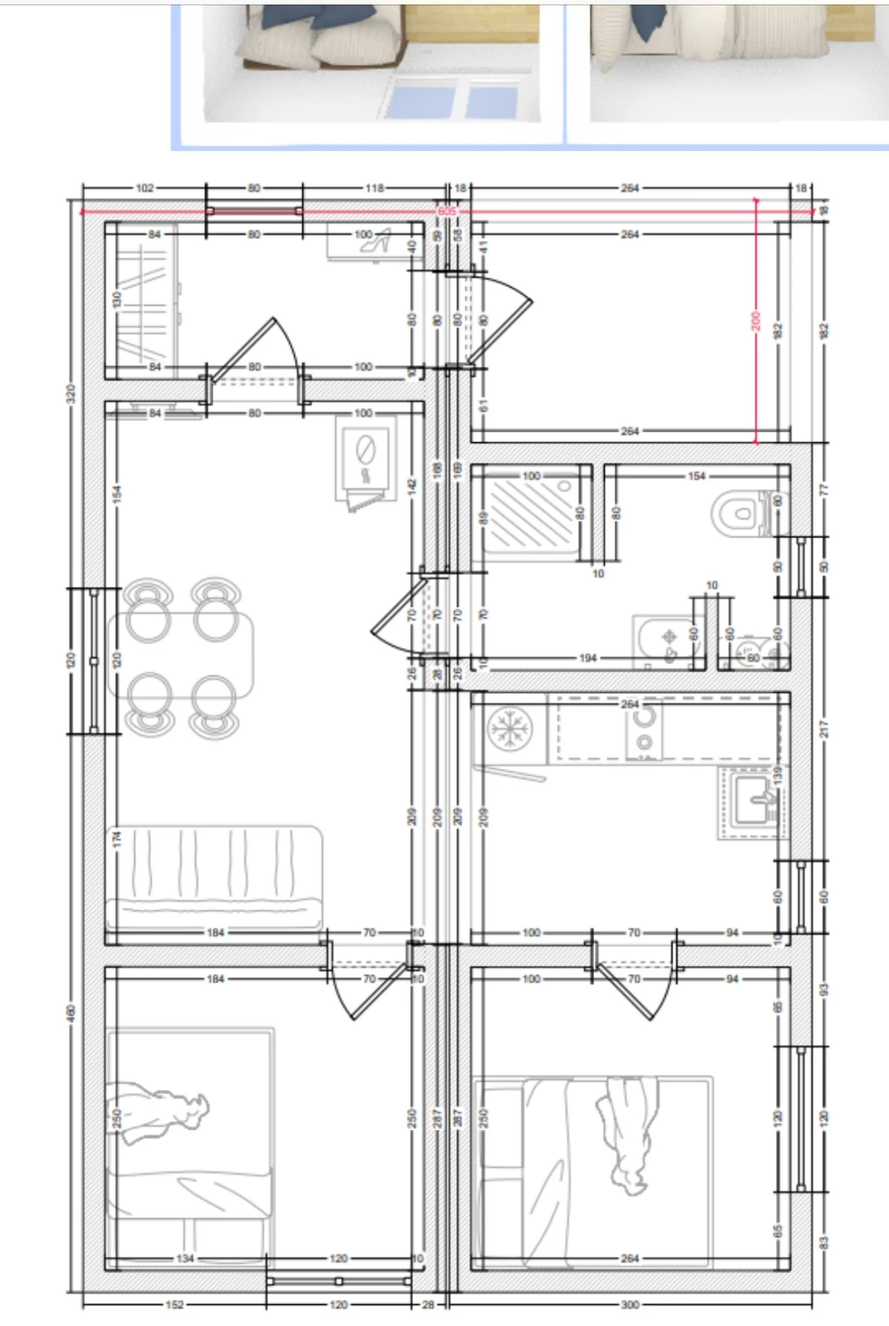
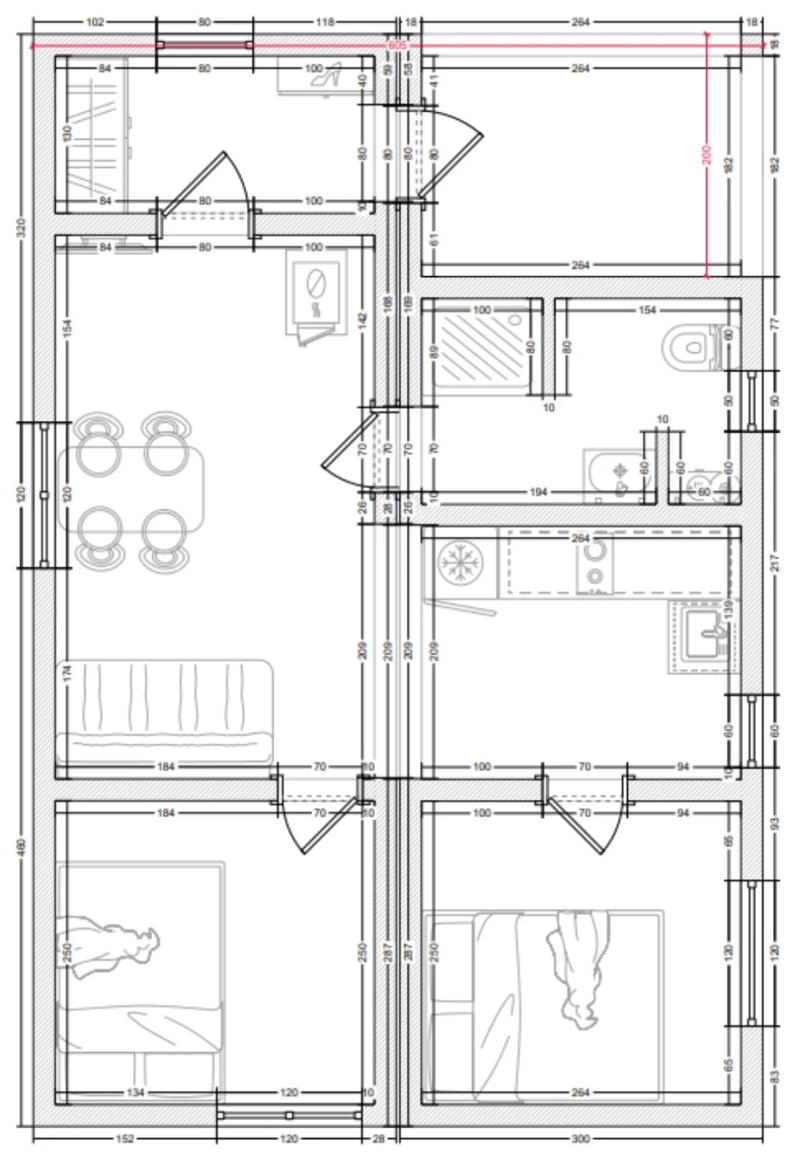
Планы без лишнего: у бордового дома 54 м² убрана полоска картинок сверху
У «Дома с баней» снизу убран обрывок подписи; у «Чёрного» дома и бани 2,5×6
план обрезан по чертежу: без пустых полей, чёрной линии сверху и полосы
прокрутки справа.

Claude-Session: https://claude.ai/code/session_01Ncg2WsdbaUiHi2r3Knh2FN

diff --git a/promo.html b/promo.html
@@ -2248,7 +2248,7 @@ html.has-house { overflow: hidden; }
 </script>
 <script>
 var HOUSES = {"h1": {"title": "Чёрный снаружи, белый внутри", "facts": [["Размер", "6×8,5 м: дом 6×6 м и терраса 2,5×6 м"], ["Внутри", "две спальни, кухня-гостиная, прихожая, санузел, дровяная печь"], ["Отделка", "стены в краске, ламинат 33 класса"], ["Когда", "сентябрь 2026"]], "note": null, "spec": null, "video": null, "reviews": [["Нет слов! Красота. Стиль. Уют.", "Елена, комментарий ВКонтакте"], ["Шикарно выглядит.", "Сергей, комментарий ВКонтакте"]], "photos": [["h1-01", "Дом 6×8,5 м: сам дом 6×6 м и терраса 2,5×6 м под общей крышей", 0], ["h1-02", "Вечером горит свет под навесом террасы", 0], ["h1-03", "Холодильник и мебель заказчика приехали на участок прямо в доме", 0], ["h1-04", "Дровяная печь греет, даже если отключат электричество", 0], ["h1-05", "Спальня с двумя окнами", 0], ["h1-06", "Прихожая, справа санузел со стиральной машиной", 0], ["h1-07", "Цвет стен выбрал заказчик", 0], ["h1-08", "Стены подготовлены под плитку: её заказчик выберет и положит позже", 0], ["h1-09", "Две спальни, кухня-гостиная, прихожая и санузел", 1]]}, "h2": {"title": "Баня с жилой комнатой", "facts": [["Размер", "баня 31,5 м² и угловая терраса 12 м²"], ["Внутри", "комната 14 м², парная, душевая, санузел"], ["Изготовление", "3–4 недели"], ["Когда", "октябрь 2026"]], "note": null, "spec": null, "video": null, "reviews": [], "photos": [["h2-01", "Баня с жилой комнатой: 31,5 м² и угловая терраса 12 м²", 0], ["h2-02", "В сумерках на террасе горит свет", 0], ["h2-03", "Комната 14 м²: по плану здесь диван и кровать, можно остаться ночевать", 0], ["h2-04", "Коридор к парной и душевой", 0], ["h2-05", "Душевая отделана панелями под тёмный камень", 0], ["h2-06", "Санузел с окном: унитаз и раковина с тумбой", 0], ["h2-07", "Парная: дровяная печь у стены из кирпича", 0], ["h2-08", "Полки буквой Г, из парной дверь в душевую", 0], ["h2-09", "Планировка: комната, санузел, душевая, парная и терраса", 1]]}, "h3": {"title": "Дачный дом 3×9 с хозблоком", "facts": [["Размер", "3×9 м"], ["Внутри", "кухня-гостиная с печью, санузел с душем, прихожая, хозблок со своим входом"], ["Изготовление", "3–4 недели, установка за 1 день"], ["Когда", "сентябрь 2026"]], "note": "В хозблоке стеллаж и откидной столик: для рассады и зарядки аккумуляторов. Планировку придумал заказчик.", "spec": null, "video": null, "reviews": [["Какой классный проект! Восхищаюсь вами.", "Татьяна, комментарий ВКонтакте"], ["Сколько можно уместить в таком пространстве, обалдеть! Очень круто.", "Сергей, комментарий ВКонтакте"], ["Какое роскошество и продуманность!", "Katrin, комментарий ВКонтакте"]], "photos": [["h3-01", "Два входа под одним козырьком: в дом и в хозблок", 0], ["h3-02", "Кухня вдоль окон: духовой шкаф, посудомоечная машина и холодильник", 0], ["h3-03", "Топится печь, рядом плита и столешница под окнами", 0], ["h3-04", "Прихожая: шкаф подвешен над полом, справа дверь в санузел", 0], ["h3-05", "Санузел: душ, унитаз и стиральная машина", 0], ["h3-06", "Планировка: хозблок, прихожая, санузел и кухня-гостиная", 1]]}, "h4": {"title": "Баня 2,5×6", "facts": [["Размер", "2,5×6 м"], ["Внутри", "комната отдыха, моечная, парная"], ["Изготовление", "2–3 недели"], ["Гарантия", "5 лет"], ["Когда", "август 2026"]], "note": null, "spec": ["Утепление: пол и потолок 150 мм, стены 100 мм", "Крыша из гибкой черепицы", "Окна двухкамерные Rehau", "Пол со стоком для воды; влагостойкий ламинат 33 класса", "Парная и моечная из осины и лиственницы", "Входная дверь не промерзает зимой, внутри стеклянные банные двери", "Электрика с защитой от удара током (УЗО)"], "video": null, "reviews": [["Банька — мечта!", "Алла, комментарий ВКонтакте"]], "photos": [["h4-01", "Баня приезжает на участок готовой: с печью, полками и электрикой", 0], ["h4-02", "Огонь в печи видно через стеклянную дверцу топки", 0], ["h4-03", "Моечная: бак для воды, лавка и пол со стоком", 0], ["h4-04", "Парная: полки буквой Г и печь «Гейзер мини»", 0], ["h4-05", "Из парной дверь ведёт в моечную", 0], ["h4-06", "Планировка: комната отдыха, моечная и парная", 1]]}, "h5": {"title": "Дом 48 м² с угловой террасой", "facts": [["Размер", "48 м² и угловая терраса"], ["Внутри", "две спальни, гостиная, кухня-столовая, санузел"], ["Когда", "август 2026"]], "note": "Заказчики почти сразу переехали и живут. Всем тепло и комфортно.", "spec": null, "video": null, "reviews": [["Очень уютно получилось!", "Марина, комментарий ВКонтакте"]], "photos": [["h5-01", "Фото прислали заказчики после переезда", 0], ["h5-02", "В прихожей встречает хозяйский пёс", 0], ["h5-03", "Спальня с большим окном", 0], ["h5-04", "Вторая спальня стала детской", 0], ["h5-05", "Гостиная: угловой диван у окна", 0], ["h5-06", "Напротив дивана тумба с телевизором", 0], ["h5-07", "Санузел: водонагреватель и фильтр для воды", 0], ["h5-08", "Планировка: две спальни, гостиная, кухня-столовая, санузел и терраса", 1]]}, "h6": {"title": "Рыжий дом 69 м²", "facts": [["Размер", "6×11,5 м: дом 6×9 м и терраса 6×2,5 м"], ["Внутри", "кухня-гостиная с печью, две спальни, санузел с душем"], ["Изготовление", "4–5 недель под ключ, установка 2 дня"], ["Когда", "июнь 2026"]], "note": null, "spec": null, "video": null, "reviews": [["Какие ваши дома просторные и красивые.", "Елена, комментарий ВКонтакте"], ["Какой простор!", "Katrin, комментарий ВКонтакте"]], "photos": [["h6-01", "69 м² вместе с террасой: дом 6×9 м и терраса 6×2,5 м", 0], ["h6-02", "Терраса на всю ширину дома, к ней ведут широкие ступени", 0], ["h6-03", "Вид сбоку: окна вдоль длинной стороны и труба от печи", 0], ["h14-03", "Кухня-гостиная: печь и стеклянная дверь на террасу", 0], ["h14-04", "Спальня с двуспальной кроватью", 0], ["h14-05", "Вторая спальня", 0], ["h14-06", "Санузел: душ и раковина с тумбой", 0]]}, "h7": {"title": "Дом с баней", "facts": [["Где", "Карелия"], ["Внутри", "кухня-гостиная, спальня, санузел с душем, парная"], ["Изготовление", "до 4 недель, установка 1–2 дня"], ["Фото зимой", "прислали хозяева, декабрь 2025"]], "note": "Зимой хозяева прислали фото дома вместе с большим, на 5 минут, голосовым сообщением. Юлия: «Я слушала и плакала».", "spec": null, "video": null, "reviews": [["Какой чудесный домик! С банькой! Вот оно — тихое семейное счастье и релакс!", "Алла, комментарий ВКонтакте"], ["Волшебно!", "комментарий ВКонтакте к зимним фото"]], "photos": [["h7-01", "Рыжий фасад и широкая терраса со ступенями", 0], ["h16-01", "Зимой: дом среди заснеженных сосен, фото прислали хозяева", 0], ["h7-02", "Кухня-гостиная, за резной перегородкой спальное место", 0], ["h7-03", "Кухня: духовой шкаф, варочная панель и стол у окна", 0], ["h7-04", "Спальня: двуспальная кровать и ещё одно спальное место", 0], ["h7-05", "Санузел: душевая со стеклянными дверями и зеркало с подсветкой", 0], ["h7-06", "Парная: дровяная печь и полки с подсветкой", 0], ["h7-07", "Печь-каменка, дверь из парной ведёт в дом", 0], ["h16-02", "Зимой: спальня за резной перегородкой, на окне гирлянда", 0], ["h16-03", "Зимой: кровать у окна, за окном заснеженный лес", 0], ["h7-08", "Планировка дома с баней", 1]]}, "h8": {"title": "Дом-студия 27 м²", "facts": [["Размер", "27 м²"], ["Внутри", "комната с печью, спальня, санузел с душем"], ["Изготовление", "12–15 дней, установка за несколько часов"], ["Когда", "апрель 2026"]], "note": "Зимний дом в комплектации под ключ: привезли, поставили, заходи и живи.", "spec": null, "video": null, "reviews": [], "photos": [["h8-01", "Зимний дом-студия 27 м² с дровяной печью", 0], ["h8-02", "Комната с печью и окнами на две стороны", 0], ["h8-03", "Коридор: шкаф-купе с зеркалом, в конце печь", 0], ["h8-04", "Отдельная спальня", 0], ["h8-05", "Санузел: душ, раковина над стиральной машиной и унитаз", 0]]}, "h9": {"title": "Дом 48 м², зелёный", "facts": [["Размер", "48 м²"], ["Внутри", "кухня-гостиная с печью, спальня, санузел, прихожая с гардеробом"], ["Изготовление", "3 недели, установка 1 день"], ["Когда", "март 2026"]], "note": null, "spec": null, "video": null, "reviews": [["Мне нравятся все ваши дома! Особенно в тёплых светлых тонах.", "Татьяна, комментарий ВКонтакте"], ["Очень классный. Компактный.", "комментарий ВКонтакте"]], "photos": [["h9-01", "Зелёный фасад и белая терраса на закате", 0], ["h9-02", "Терраса с белыми перилами у входа", 0], ["h9-03", "Кухня-гостиная с печью и окнами на две стороны", 0], ["h9-04", "Кухня-гостиная во всю ширину дома, в конце печь", 0], ["h9-05", "Спальня с большим окном", 0], ["h9-06", "Санузел: стены под тёмный мрамор, место под душ", 0], ["h9-07", "Планировка: спальня, кухня-гостиная, прихожая с гардеробом и санузел", 1]]}, "h10": {"title": "Дом 48 м², рыжий с графитом", "facts": [["Размер", "48 м², 6×8 м"], ["Внутри", "две спальни, кухня-гостиная с печью, санузел, прихожая"], ["Изготовление", "3 недели под ключ"], ["Когда", "март 2026"]], "note": null, "spec": null, "video": null, "reviews": [["А главное — качественный! Как вспомню свой мини-теремок, так вздрогну.", "Нина, комментарий ВКонтакте"], ["Уютный домик очень! И очень симпатичный!", "Алла, комментарий ВКонтакте"]], "photos": [["h10-01", "Дом 48 м² зимой: свет у входа и в окнах", 0], ["h10-02", "Вход с фонарями по обе стороны двери", 0], ["h10-03", "Гостиная: светлые стены и тёмный пол", 0], ["h10-04", "Печь у стены, отделанной под чёрный мрамор", 0], ["h10-05", "Стеклянная дверь на улицу", 0], ["h10-06", "Прихожая: шкаф с жалюзийными дверцами", 0], ["h10-07", "Душевая: стены под тёмный камень", 0], ["h10-08", "Первый тост в новом доме, у печи", 0], ["h10-09", "Планировка: две спальни, кухня-гостиная, санузел и прихожая", 1]]}, "h11": {"title": "Дом 54 м², бордовый", "facts": [["Размер", "54 м²"], ["Внутри", "кухня-гостиная с печью, две спальни, санузел"], ["Изготовление", "3 недели под ключ, установка 1 день"], ["Когда", "март 2026"]], "note": "Планировку можно изменить бесплатно.", "spec": null, "video": null, "reviews": [["Цвет дома просто отличный! Планировка замечательная!", "Олеся, комментарий ВКонтакте"], ["Классный дом! Цвет потрясающий.", "Елена, комментарий ВКонтакте"]], "photos": [["h11-01", "Бордовый фасад, белые окна и терраса", 0], ["h11-02", "Кухня-гостиная с дровяной печью", 0], ["h11-03", "Коридор к спальням", 0], ["h11-04", "Санузел: душ, стены под светлый мрамор", 0], ["h11-05", "Прихожая: входная дверь с зеркалом", 0], ["h11-06", "Планировка: две спальни, кухня-гостиная, санузел", 1]]}, "h12": {"title": "Зимний минидом", "facts": [["Внутри", "кухня-гостиная 11,4 м², спальня 5,8 м², санузел, прихожая"], ["Терраса", "14 м²"], ["Изготовление", "2 недели под ключ, установка за несколько часов"], ["Когда", "март 2026"]], "note": "Подходит, чтобы начать дачную жизнь или сдавать в аренду.", "spec": null, "video": null, "reviews": [["Какой очаровательный и удобный домик! Компактный такой!", "Алла, комментарий ВКонтакте"]], "photos": [["h12-01", "Терраса 14 м² перед большими окнами", 0], ["h12-02", "Печь уже топится, в доме тепло", 0], ["h12-03", "Кухня-гостиная: диван у больших окон", 0], ["h12-04", "Кухня вдоль стены", 0], ["h12-05", "Санузел с душем", 0], ["h12-06", "Планировка: кухня-гостиная, спальня, санузел, прихожая и терраса", 1]]}, "h13": {"title": "Дом на вырост, 72 м²", "facts": [["Размер", "60 м² и терраса 12 м²"], ["Модули", "три, под общей крышей"], ["Когда", "октябрь 2025"]], "note": "Раньше на этом участке стоял один модуль 27 м². Теперь это дом на 60 м² с террасой.", "spec": null, "video": null, "reviews": [["Юля, Юра и всей вашей команде огромное спасибо! …С вами просто замечательно работать! В доме тепло, просторно, светло… Не верится, что один модуль превратился в такую красоту.", "Олеся, заказчица"]], "photos": [["h13-01", "Дом на вырост: 60 м² и терраса 12 м², три модуля", 0], ["h13-02", "Терраса 12 м² у входа", 0], ["h13-03", "Входная дверь не промерзает зимой", 0], ["h13-04", "Прихожая со шкафом", 0], ["h13-05", "В прихожей есть окно", 0], ["h13-06", "Шкаф сделан под заказ", 0], ["h13-07", "Кухня-гостиная: кухонная зона и печь", 0], ["h13-08", "Кухня-гостиная: зона отдыха", 0], ["h13-09", "Спальня родителей", 0]]}, "h15": {"title": "Зимний дом 40 м²", "facts": [["Размер", "дом 30 м² и крытая терраса 10 м²"], ["Изготовление", "3 недели под ключ"], ["Установка", "1 день вместе с подключением к коммуникациям"], ["Когда", "декабрь 2025"]], "note": "Это типовой проект компании.", "spec": null, "video": null, "reviews": [], "photos": [["h15-01", "Зимний дом 40 м² вместе с террасой: дом 30 м² и крытая терраса 10 м²", 0], ["h15-02", "Терраса под общей крышей, у входа горит свет", 0], ["h15-03", "Прихожая: входная дверь с зеркалом и шкаф с жалюзийными дверцами", 0], ["h15-04", "Тёмные двери и дровяная печь в углу", 0], ["h15-05", "Комната с двумя окнами и печью", 0], ["h15-06", "Санузел: душ, водонагреватель и фильтры для воды", 0]]}};
-var SIZES = {"h1-01": [960, 1280], "h1-02": [960, 1280], "h1-03": [1000, 1334], "h1-04": [1000, 1334], "h1-05": [1000, 1334], "h1-06": [1000, 1334], "h1-07": [1000, 1334], "h1-08": [1000, 1334], "h1-09": [1179, 1881], "h2-01": [1000, 1334], "h2-02": [1000, 1334], "h2-03": [1000, 1334], "h2-04": [1000, 1334], "h2-05": [1000, 1334], "h2-06": [1000, 1334], "h2-07": [1000, 1334], "h2-08": [1000, 1334], "h2-09": [1142, 1466], "h3-01": [960, 1280], "h3-02": [1000, 1334], "h3-03": [1000, 1334], "h3-04": [1000, 1334], "h3-05": [1000, 1626], "h3-06": [1146, 500], "h4-01": [1000, 1334], "h4-02": [1000, 1334], "h4-03": [1000, 1334], "h4-04": [1000, 1334], "h4-05": [1000, 1334], "h4-06": [1179, 1881], "h5-01": [1000, 752], "h5-02": [990, 1280], "h5-03": [960, 1280], "h5-04": [960, 1280], "h5-05": [960, 1280], "h5-06": [960, 1280], "h5-07": [960, 1280], "h5-08": [1049, 1513], "c2": [760, 570], "c3": [760, 570], "c4": [760, 570], "c5": [760, 570], "hero-1": [960, 948], "h6-01": [1000, 1334], "h6-02": [1000, 1334], "h6-03": [1000, 1334], "h7-01": [1000, 1334], "h7-02": [960, 1280], "h7-03": [960, 1280], "h7-04": [960, 1280], "h7-05": [960, 1280], "h7-06": [960, 1280], "h7-07": [960, 1280], "h7-08": [1108, 929], "h8-01": [1000, 1334], "h8-02": [1000, 1334], "h8-03": [1000, 1334], "h8-04": [1000, 1334], "h8-05": [1000, 1334], "h9-01": [1000, 1334], "h9-02": [1000, 1334], "h9-03": [1000, 1334], "h9-04": [1000, 1334], "h9-05": [1000, 1334], "h9-06": [1000, 750], "h9-07": [1062, 838], "h10-01": [1000, 1334], "h10-02": [1000, 1334], "h10-03": [960, 1280], "h10-04": [960, 1280], "h10-05": [1000, 1334], "h10-06": [1000, 1334], "h10-07": [1000, 1334], "h10-08": [960, 1280], "h10-09": [1109, 899], "h11-01": [960, 1280], "h11-02": [960, 1280], "h11-03": [960, 1280], "h11-04": [1000, 1334], "h11-05": [1000, 1334], "h11-06": [1179, 1757], "h12-01": [1000, 1334], "h12-02": [1000, 1334], "h12-03": [1000, 1334], "h12-04": [1000, 1334], "h12-05": [1000, 1334], "h12-06": [1177, 767], "h13-01": [1000, 1026], "h13-02": [1000, 999], "h13-03": [1000, 973], "h13-04": [1000, 1132], "h13-05": [1000, 1066], "h13-06": [1000, 959], "h13-07": [1000, 1039], "h13-08": [1000, 986], "h13-09": [1000, 986], "h14-01": [1000, 1334], "h14-02": [1000, 1334], "h14-03": [1000, 1334], "h14-04": [1000, 1334], "h14-05": [1000, 1334], "c6": [760, 570], "c7": [760, 570], "c8": [760, 570], "c9": [760, 570], "c10": [760, 570], "c11": [760, 570], "c12": [760, 570], "c13": [760, 570], "c14": [760, 570], "h14-06": [1000, 1334], "h14-07": [1000, 1334], "h15-01": [1000, 1334], "h15-02": [1000, 1334], "h15-03": [1000, 1334], "h15-04": [1000, 1334], "h15-05": [1000, 1334], "h15-06": [1000, 1334], "h16-01": [1000, 750], "h16-02": [1000, 1333], "h16-03": [1000, 1333], "h16-04": [1000, 750], "c15": [760, 570], "c16": [760, 570]};
+var SIZES = {"h1-01": [960, 1280], "h1-02": [960, 1280], "h1-03": [1000, 1334], "h1-04": [1000, 1334], "h1-05": [1000, 1334], "h1-06": [1000, 1334], "h1-07": [1000, 1334], "h1-08": [1000, 1334], "h1-09": [1003, 1216], "h2-01": [1000, 1334], "h2-02": [1000, 1334], "h2-03": [1000, 1334], "h2-04": [1000, 1334], "h2-05": [1000, 1334], "h2-06": [1000, 1334], "h2-07": [1000, 1334], "h2-08": [1000, 1334], "h2-09": [1142, 1466], "h3-01": [960, 1280], "h3-02": [1000, 1334], "h3-03": [1000, 1334], "h3-04": [1000, 1334], "h3-05": [1000, 1626], "h3-06": [1146, 500], "h4-01": [1000, 1334], "h4-02": [1000, 1334], "h4-03": [1000, 1334], "h4-04": [1000, 1334], "h4-05": [1000, 1334], "h4-06": [636, 1210], "h5-01": [1000, 752], "h5-02": [990, 1280], "h5-03": [960, 1280], "h5-04": [960, 1280], "h5-05": [960, 1280], "h5-06": [960, 1280], "h5-07": [960, 1280], "h5-08": [1049, 1513], "c2": [760, 570], "c3": [760, 570], "c4": [760, 570], "c5": [760, 570], "hero-1": [960, 948], "h6-01": [1000, 1334], "h6-02": [1000, 1334], "h6-03": [1000, 1334], "h7-01": [1000, 1334], "h7-02": [960, 1280], "h7-03": [960, 1280], "h7-04": [960, 1280], "h7-05": [960, 1280], "h7-06": [960, 1280], "h7-07": [960, 1280], "h7-08": [1041, 860], "h8-01": [1000, 1334], "h8-02": [1000, 1334], "h8-03": [1000, 1334], "h8-04": [1000, 1334], "h8-05": [1000, 1334], "h9-01": [1000, 1334], "h9-02": [1000, 1334], "h9-03": [1000, 1334], "h9-04": [1000, 1334], "h9-05": [1000, 1334], "h9-06": [1000, 750], "h9-07": [1062, 838], "h10-01": [1000, 1334], "h10-02": [1000, 1334], "h10-03": [960, 1280], "h10-04": [960, 1280], "h10-05": [1000, 1334], "h10-06": [1000, 1334], "h10-07": [1000, 1334], "h10-08": [960, 1280], "h10-09": [1109, 899], "h11-01": [960, 1280], "h11-02": [960, 1280], "h11-03": [960, 1280], "h11-04": [1000, 1334], "h11-05": [1000, 1334], "h11-06": [1055, 1537], "h12-01": [1000, 1334], "h12-02": [1000, 1334], "h12-03": [1000, 1334], "h12-04": [1000, 1334], "h12-05": [1000, 1334], "h12-06": [1177, 767], "h13-01": [1000, 1026], "h13-02": [1000, 999], "h13-03": [1000, 973], "h13-04": [1000, 1132], "h13-05": [1000, 1066], "h13-06": [1000, 959], "h13-07": [1000, 1039], "h13-08": [1000, 986], "h13-09": [1000, 986], "h14-01": [1000, 1334], "h14-02": [1000, 1334], "h14-03": [1000, 1334], "h14-04": [1000, 1334], "h14-05": [1000, 1334], "c6": [760, 570], "c7": [760, 570], "c8": [760, 570], "c9": [760, 570], "c10": [760, 570], "c11": [760, 570], "c12": [760, 570], "c13": [760, 570], "c14": [760, 570], "h14-06": [1000, 1334], "h14-07": [1000, 1334], "h15-01": [1000, 1334], "h15-02": [1000, 1334], "h15-03": [1000, 1334], "h15-04": [1000, 1334], "h15-05": [1000, 1334], "h15-06": [1000, 1334], "h16-01": [1000, 750], "h16-02": [1000, 1333], "h16-03": [1000, 1333], "h16-04": [1000, 750], "c15": [760, 570], "c16": [760, 570]};
 </script>
 <script>
 (function () {
